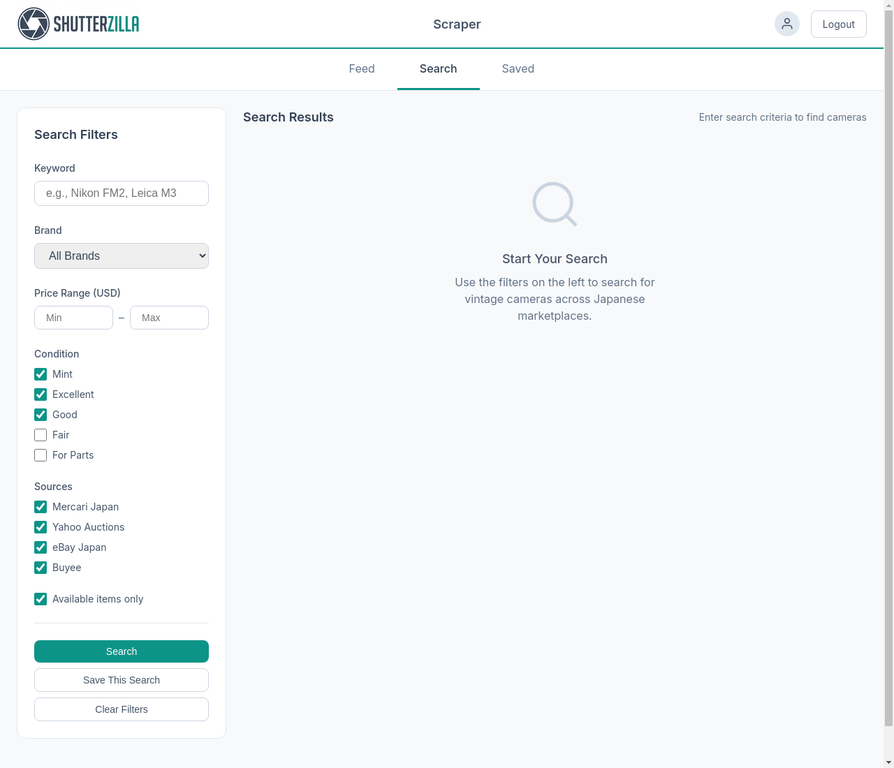
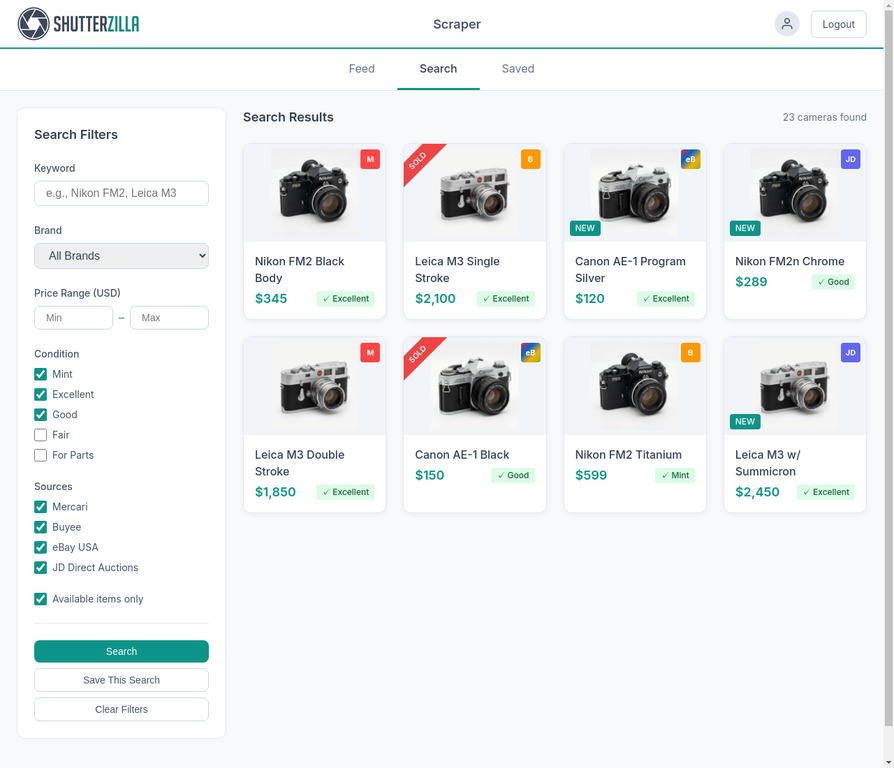
Add search results with camera images and data

diff --git a/mockups/scraper-search.html b/mockups/scraper-search.html
@@ -159,6 +159,31 @@
       font-size: var(--font-size-base);
       max-width: 300px;
     }
+    
+    .source-icon--jd {
+      background-color: #6366f1;
+    }
+    
+    .card__image-container {
+      position: relative;
+      height: 140px;
+      background-color: var(--color-gray-100);
+      display: flex;
+      align-items: center;
+      justify-content: center;
+      overflow: hidden;
+    }
+    
+    .card__image-container img {
+      max-width: 90%;
+      max-height: 90%;
+      object-fit: contain;
+    }
+    
+    .search-results__count {
+      font-size: var(--font-size-sm);
+      color: var(--color-slate-light);
+    }
   </style>
 </head>
 <body>
@@ -294,17 +319,135 @@
       <div class="search-results">
         <div class="search-results__header">
           <h2 class="search-results__title">Search Results</h2>
-          
+          <span class="search-results__count">23 cameras found</span>
         </div>
         
-        <!-- Empty State -->
-        <div class="empty-state">
-          <svg class="empty-state__icon" viewBox="0 0 24 24" fill="none" stroke="currentColor" stroke-width="1.5">
-            <circle cx="11" cy="11" r="8"></circle>
-            <path d="m21 21-4.35-4.35"></path>
-          </svg>
-          <h3 class="empty-state__title">Start Your Search</h3>
-          <p class="empty-state__text">Use the filters on the left to search for vintage cameras across Sources.</p>
+        <!-- Results Grid -->
+        <div class="grid grid--4">
+          <!-- Card 1 -->
+          <div class="card">
+            <div class="card__image-container">
+              <div class="source-icon source-icon--mercari">M</div>
+              <img src="assets/cameras/nikon-fm2.png" alt="Nikon FM2">
+            </div>
+            <div class="card__body">
+              <h3 class="card__title">Nikon FM2 Black Body</h3>
+              <div class="card__meta">
+                <span class="card__price">$345</span>
+                <span class="badge badge--success">✓ Excellent</span>
+              </div>
+            </div>
+          </div>
+          
+          <!-- Card 2 -->
+          <div class="card">
+            <div class="card__image-container">
+              <div class="ribbon">Sold</div>
+              <div class="source-icon source-icon--buyee">B</div>
+              <img src="assets/cameras/leica-m3.png" alt="Leica M3">
+            </div>
+            <div class="card__body">
+              <h3 class="card__title">Leica M3 Single Stroke</h3>
+              <div class="card__meta">
+                <span class="card__price">$2,100</span>
+                <span class="badge badge--success">✓ Excellent</span>
+              </div>
+            </div>
+          </div>
+          
+          <!-- Card 3 -->
+          <div class="card">
+            <div class="card__image-container">
+              <span class="badge badge--new" style="position:absolute;bottom:8px;left:8px;">NEW</span>
+              <div class="source-icon source-icon--ebay">eB</div>
+              <img src="assets/cameras/canon-ae1.png" alt="Canon AE-1">
+            </div>
+            <div class="card__body">
+              <h3 class="card__title">Canon AE-1 Program Silver</h3>
+              <div class="card__meta">
+                <span class="card__price">$120</span>
+                <span class="badge badge--success">✓ Excellent</span>
+              </div>
+            </div>
+          </div>
+          
+          <!-- Card 4 -->
+          <div class="card">
+            <div class="card__image-container">
+              <span class="badge badge--new" style="position:absolute;bottom:8px;left:8px;">NEW</span>
+              <div class="source-icon source-icon--jd">JD</div>
+              <img src="assets/cameras/nikon-fm2.png" alt="Nikon FM2">
+            </div>
+            <div class="card__body">
+              <h3 class="card__title">Nikon FM2n Chrome</h3>
+              <div class="card__meta">
+                <span class="card__price">$289</span>
+                <span class="badge badge--success">✓ Good</span>
+              </div>
+            </div>
+          </div>
+          
+          <!-- Card 5 -->
+          <div class="card">
+            <div class="card__image-container">
+              <div class="source-icon source-icon--mercari">M</div>
+              <img src="assets/cameras/leica-m3.png" alt="Leica M3">
+            </div>
+            <div class="card__body">
+              <h3 class="card__title">Leica M3 Double Stroke</h3>
+              <div class="card__meta">
+                <span class="card__price">$1,850</span>
+                <span class="badge badge--success">✓ Excellent</span>
+              </div>
+            </div>
+          </div>
+          
+          <!-- Card 6 -->
+          <div class="card">
+            <div class="card__image-container">
+              <div class="ribbon">Sold</div>
+              <div class="source-icon source-icon--ebay">eB</div>
+              <img src="assets/cameras/canon-ae1.png" alt="Canon AE-1">
+            </div>
+            <div class="card__body">
+              <h3 class="card__title">Canon AE-1 Black</h3>
+              <div class="card__meta">
+                <span class="card__price">$150</span>
+                <span class="badge badge--success">✓ Good</span>
+              </div>
+            </div>
+          </div>
+          
+          <!-- Card 7 -->
+          <div class="card">
+            <div class="card__image-container">
+              <div class="source-icon source-icon--buyee">B</div>
+              <img src="assets/cameras/nikon-fm2.png" alt="Nikon FM2">
+            </div>
+            <div class="card__body">
+              <h3 class="card__title">Nikon FM2 Titanium</h3>
+              <div class="card__meta">
+                <span class="card__price">$599</span>
+                <span class="badge badge--success">✓ Mint</span>
+              </div>
+            </div>
+          </div>
+          
+          <!-- Card 8 -->
+          <div class="card">
+            <div class="card__image-container">
+              <span class="badge badge--new" style="position:absolute;bottom:8px;left:8px;">NEW</span>
+              <div class="source-icon source-icon--jd">JD</div>
+              <img src="assets/cameras/leica-m3.png" alt="Leica M3">
+            </div>
+            <div class="card__body">
+              <h3 class="card__title">Leica M3 w/ Summicron</h3>
+              <div class="card__meta">
+                <span class="card__price">$2,450</span>
+                <span class="badge badge--success">✓ Excellent</span>
+              </div>
+            </div>
+          </div>
         </div>
       </div>
     </div>
